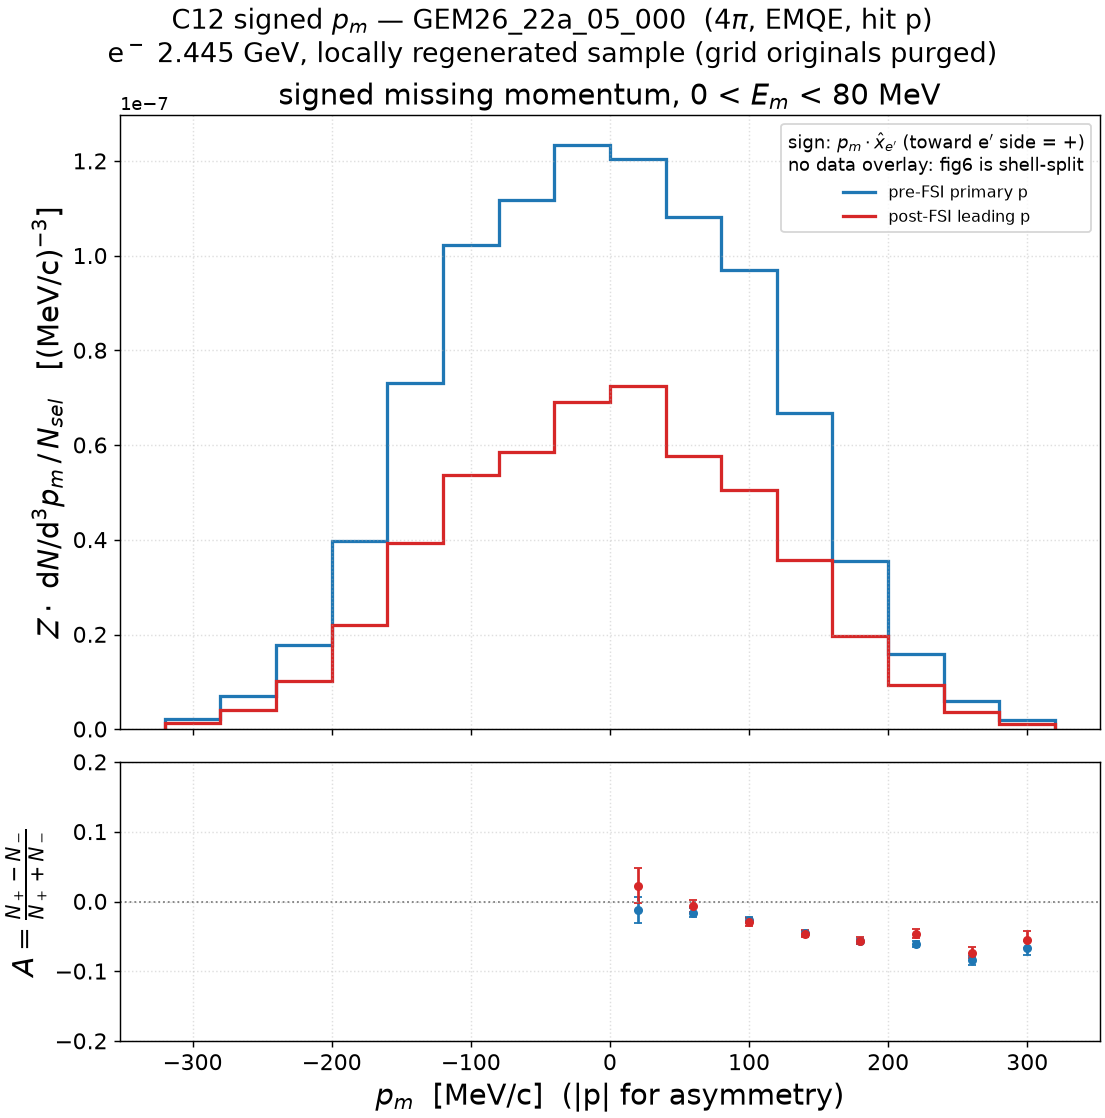
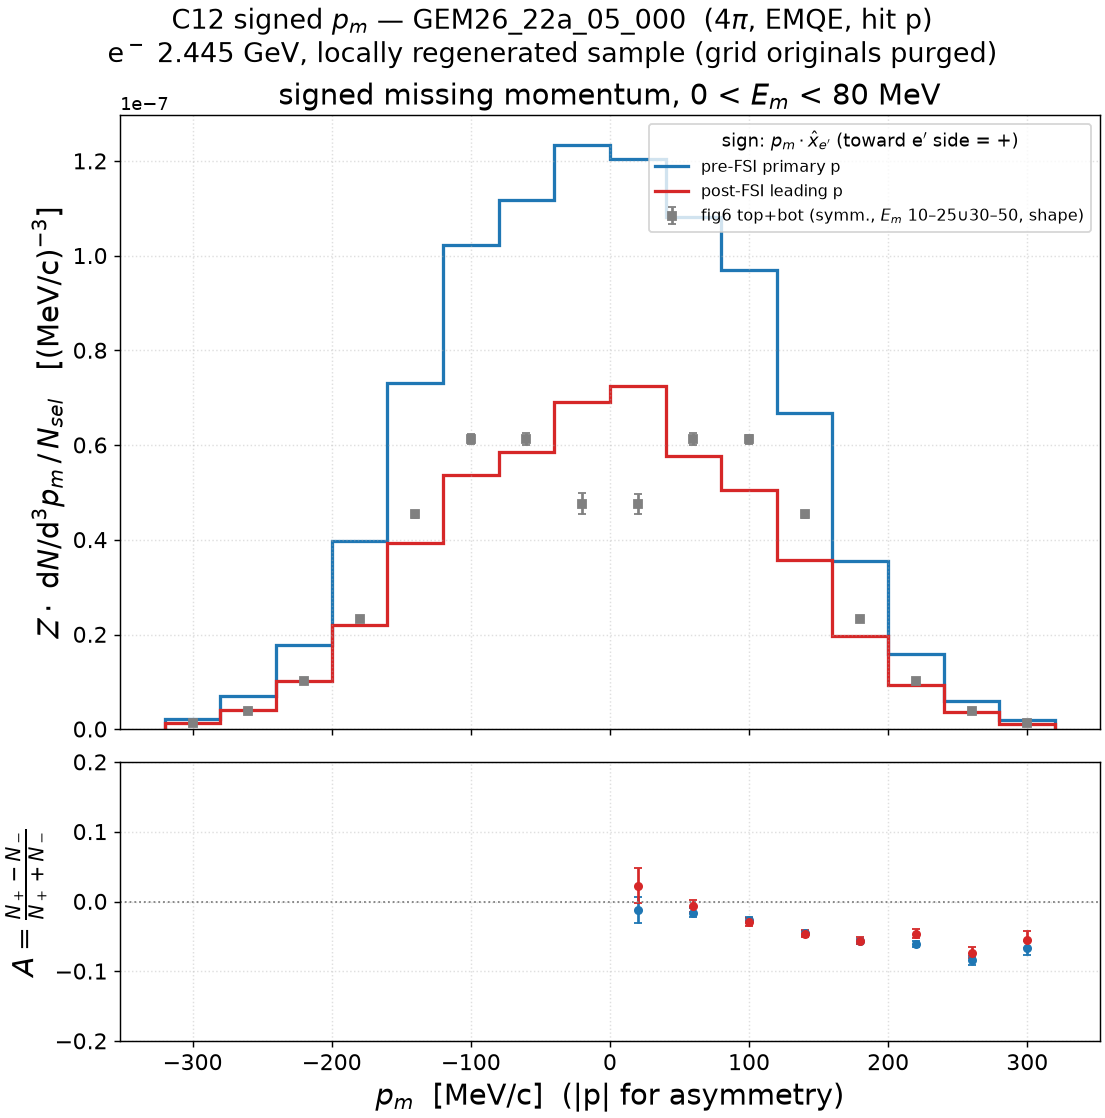
results: overlay combined Dutta fig6 on the C12 signed p_m figure
fig6 top+bottom summed (p-shell 10-25 (+) s-shell 30-50 MeV, errors in
quadrature), shape-scaled to the post-FSI integral; the E_m coverage gap
at 25-30 (and outside 10-50) vs the MC's 0-80 window is deliberate and
documented. The overlay exposes the p-shell dip at p_m=0 (l=1 node)
that both GENIE curves lack (they peak at zero); the wings above
~150 MeV/c track the post-FSI curve well.

Changed region(s): [[0.5846, 0.1216, 0.9846, 0.2129], [0.5231, 0.4258, 0.5846, 0.4562]]

diff --git a/results/template/make_pmiss_signed_c12.py b/results/template/make_pmiss_signed_c12.py
@@ -13,6 +13,12 @@ Sign convention and expectation: identical to the Fe56 script (sign of
 p_m . x_hat, x_hat = e' transverse-to-q, positive = toward the e' side;
 the 22a chain carries a kinematic asymmetry, no W_LT).
 
+Data overlay: fig6_top + fig6_bot (q1p2) COMBINED -- the C12 momentum
+distributions are published per E_m shell window (p-shell 10-25, s-shell
+30-50 MeV), so their sum covers E_m in (10,25) u (30,50) with a gap at
+25-30 and nothing outside; the MC window stays 0-80 MeV (per user: combine,
+leave the gap). Shape only, scaled to the post-FSI integral; symmetrized.
+
 Usage:
   pixi run python results/template/make_pmiss_signed_c12.py --gst <local .gst.root>
 """
@@ -110,6 +116,14 @@ if __name__ == "__main__":
         print(f"  sign-shuffle control: A = "
               f"{(cs[len(cs)//2:].sum() - cs[:len(cs)//2].sum()) / cs.sum():+.4f}")
 
+    # combined fig6 data: p-shell + s-shell (E_m 10-25 u 30-50, gap at 25-30)
+    DATA_DIR = REPO / "data/Dipingkar-dutta-data-prc_figs"
+    dx, y_p, _, e_p = np.loadtxt(DATA_DIR / "fig6_top_q1p2.dat", unpack=True)
+    _, y_s, _, e_s = np.loadtxt(DATA_DIR / "fig6_bot_q1p2.dat", unpack=True)
+    dy = y_p + y_s
+    de = np.sqrt(e_p ** 2 + e_s ** 2)
+    scale = stages[4][2].sum() / dy.sum()
+
     apply_style()
     import matplotlib.pyplot as plt
     fig, (ax, axA) = plt.subplots(2, 1, figsize=(8.5, 8.6), sharex=True,
@@ -118,14 +132,16 @@ if __name__ == "__main__":
               label="pre-FSI primary p")
     ax.stairs(stages[4][2], EDGES, color="C3", linewidth=1.8,
               label="post-FSI leading p")
+    ax.errorbar(dx, dy * scale, yerr=de * scale, fmt="s", ms=4, color="0.5",
+                capsize=2, zorder=8,
+                label="fig6 top+bot (symm., $E_m$ 10–25$\\cup$30–50, shape)")
     style_axis(ax, title="signed missing momentum, 0 < $E_m$ < 80 MeV",
                logx=False, logy=False, ymin=None)
     ax.set_ylim(0, None)
     ax.set_ylabel(r"$Z\cdot$ d$N/$d$^3p_m\,/\,N_{sel}$   [(MeV/c)$^{-3}$]",
                   fontsize=FS_LABEL)
     ax.legend(fontsize=FS_LEGEND - 3, loc="upper right",
-              title="sign: $p_m\\cdot\\hat{x}_{e'}$ (toward e$'$ side = +)\n"
-                    "no data overlay: fig6 is shell-split",
+              title="sign: $p_m\\cdot\\hat{x}_{e'}$ (toward e$'$ side = +)",
               title_fontsize=FS_LEGEND_TITLE - 3)
 
     centers = (EDGES[len(EDGES)//2:-1] + EDGES[len(EDGES)//2 + 1:]) / 2.0

diff --git a/results/prd-analyzer-v0.1/electron_c12_scattering.md b/results/prd-analyzer-v0.1/electron_c12_scattering.md
@@ -150,9 +150,15 @@ patched genie_inclxx install: local EMQE spline
 `gevgen-eminus_C12_20260717-104229-e7e-894744` (500k events, seed 20260717,
 671 s; 349k hit-proton). Same sign convention and construction as the Fe56
 section (sign of p_m·x̂, density with 4πp² divided out, B11 recoil,
-0 < E_m < 80 MeV); no data overlay — the digitized fig6 momentum
-distributions are shell-split (10–25 / 30–50 MeV) and symmetrized, so no
-0–80 MeV signed reference exists.
+0 < E_m < 80 MeV). Data overlay: **fig6 top + bottom combined** (p-shell
+10–25 ⊕ s-shell 30–50 MeV, summed, errors in quadrature; shape-scaled to
+the post-FSI integral). The combined windows cover E_m ∈ (10,25) ∪ (30,50)
+with a gap at 25–30 and nothing outside, while the MC window is 0–80 — the
+mismatch is deliberate and left as-is. The overlay exposes a real feature
+the MC lacks: the **p-shell dip at p_m = 0** (the l = 1 node — the
+±20 MeV/c points sit below their ±60–100 neighbors), while both GENIE
+curves peak at zero; the wings (|p| ≳ 150 MeV/c) track the post-FSI curve
+well.
 
 Findings — the Fe56 story repeats on carbon:
 
